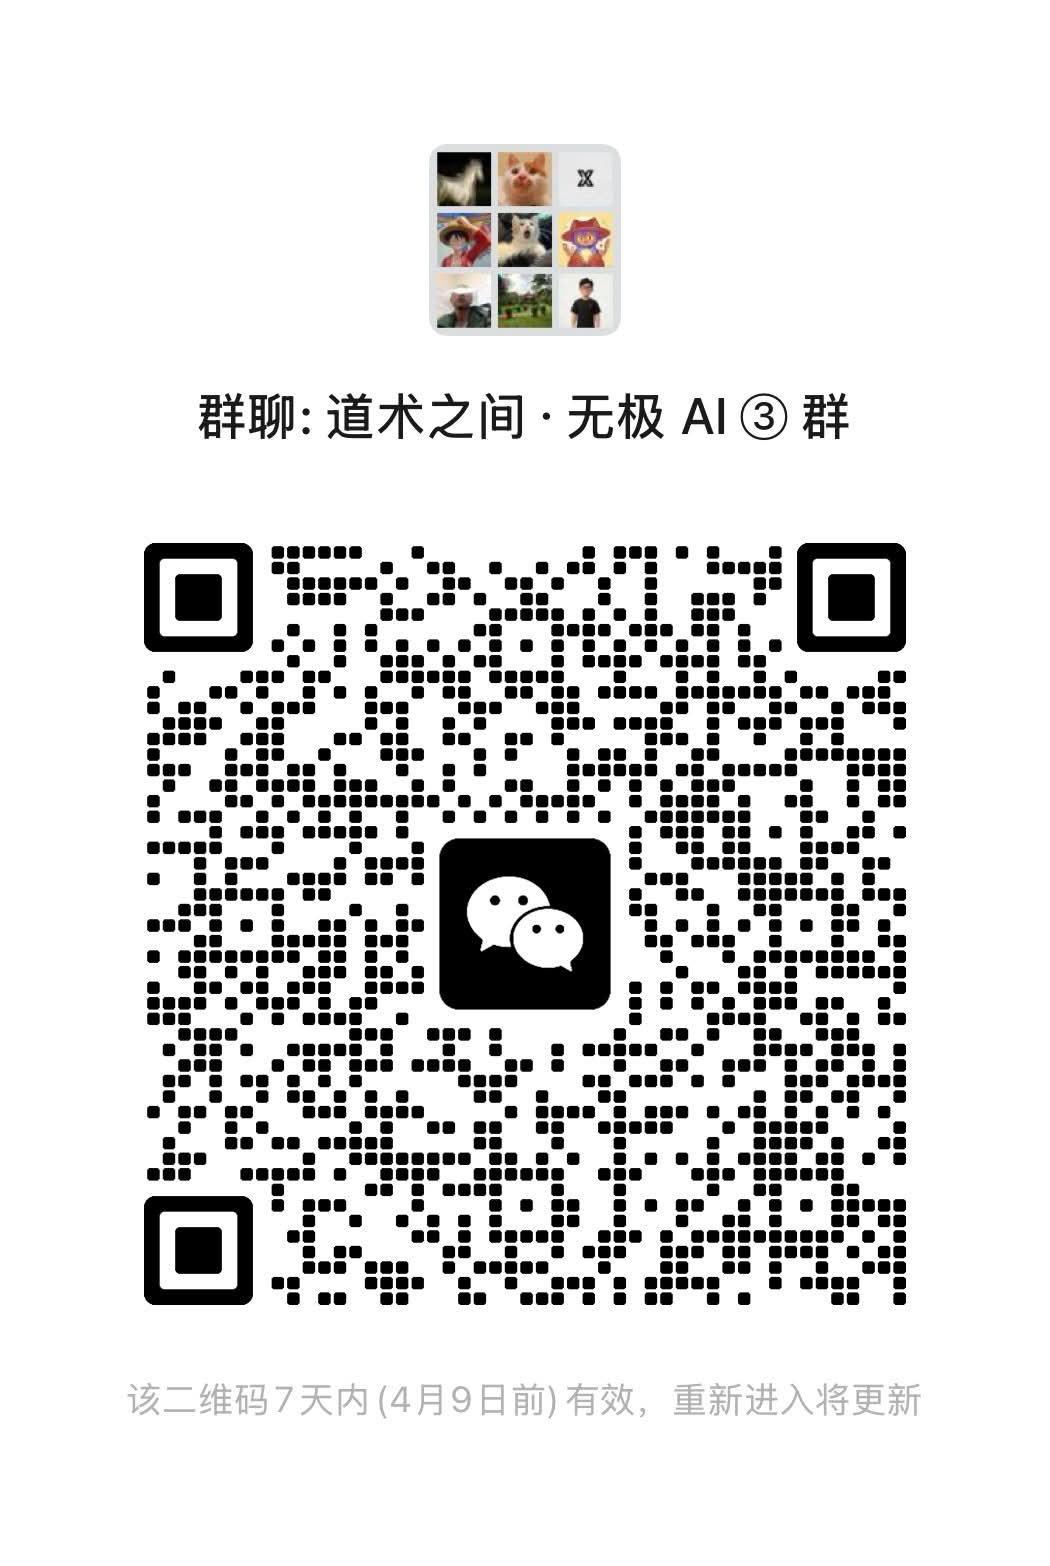
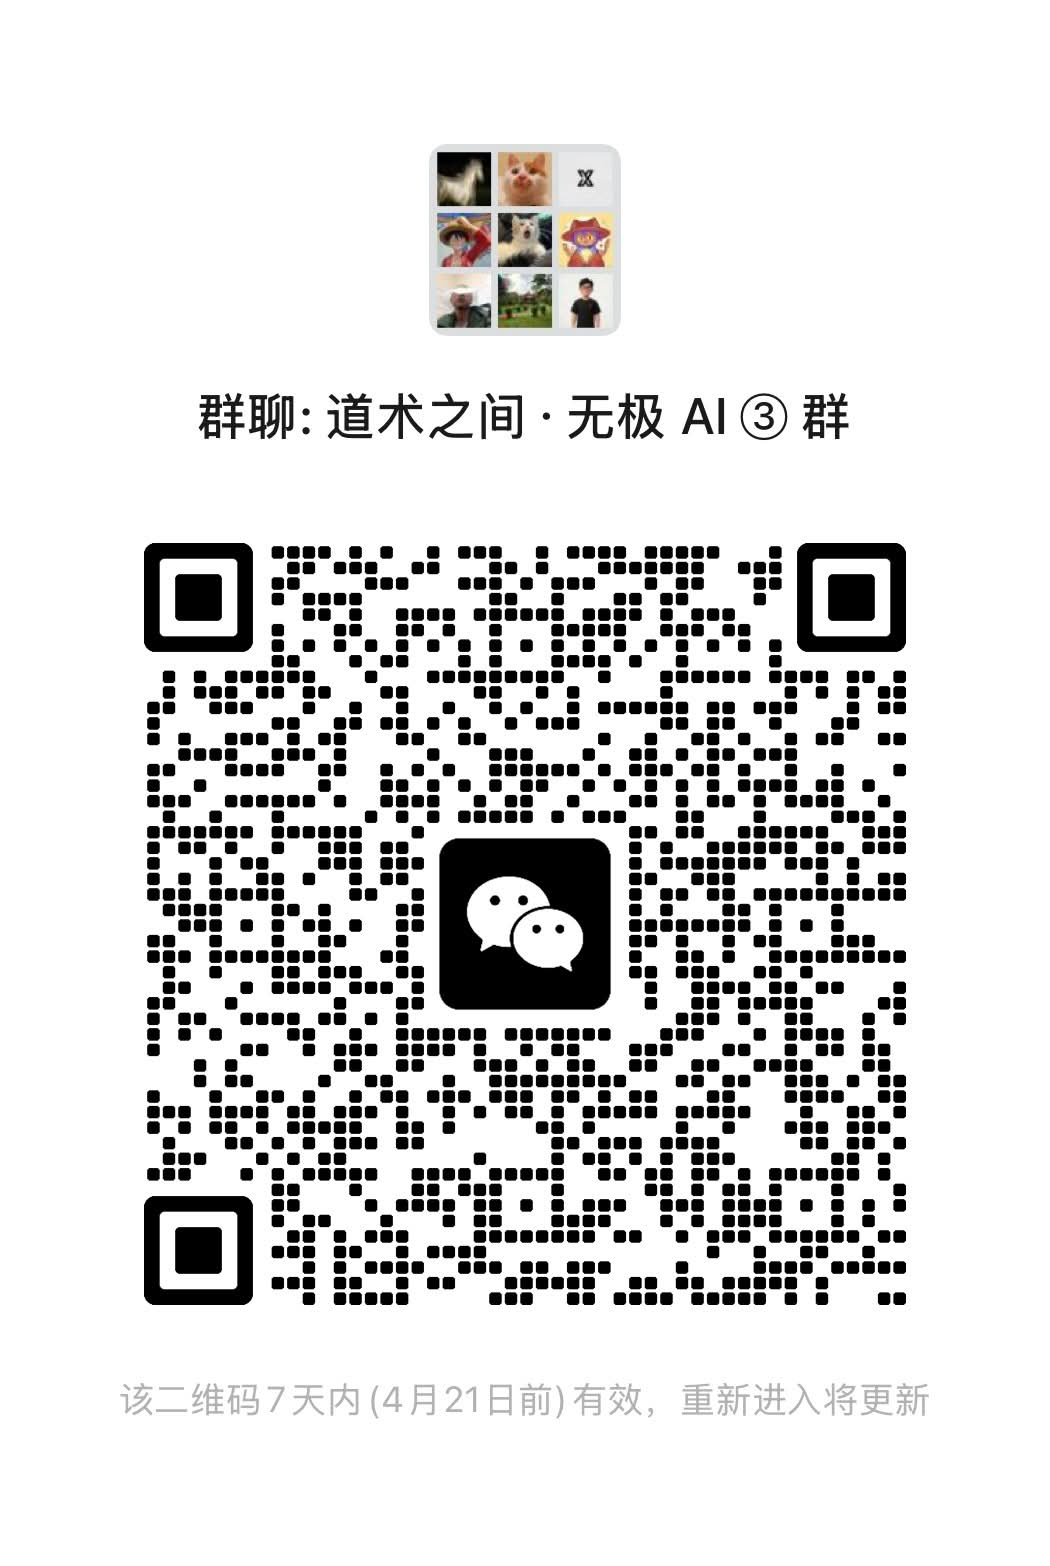
refresh wechat group 3 qr code

diff --git a/docs/group.html b/docs/group.html
@@ -41,7 +41,7 @@
     <p class="note">
       当前展示：道术之间·无极 AI ③ 群<br>
       群二维码每 7 天更新一次，如已过期请重新获取最新二维码<br>
-      这版二维码有效期至 2026-04-19 前<br>
+      这版二维码有效期至 2026-04-21 前<br>
       <a href="https://github.com/wuji-labs/nopua">GitHub: wuji-labs/nopua</a>
     </p>
     <p class="footer">爱里没有惧怕 · There is no fear in love</p>
